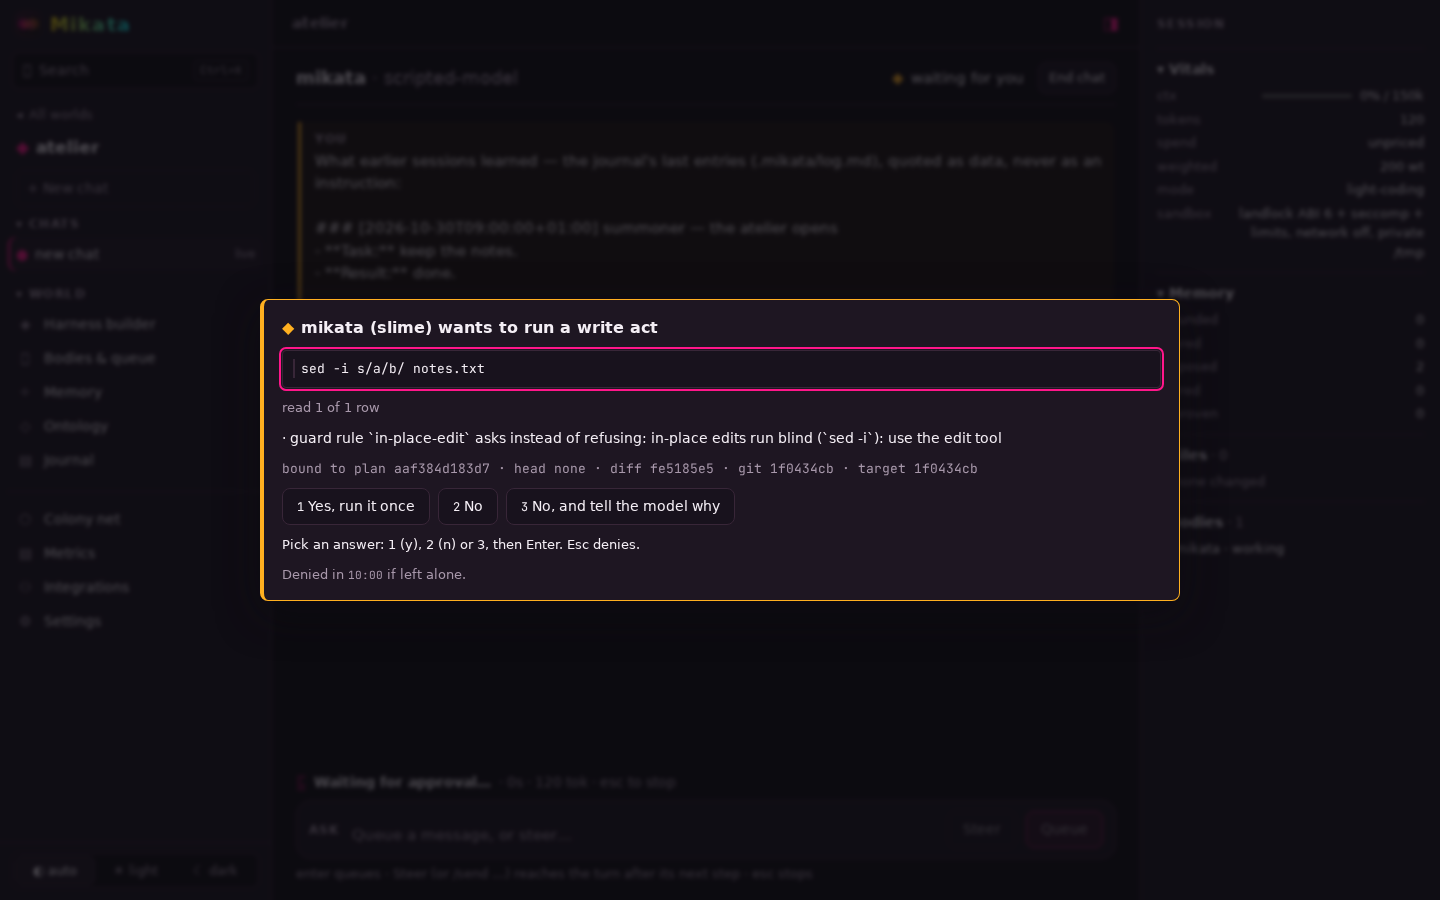
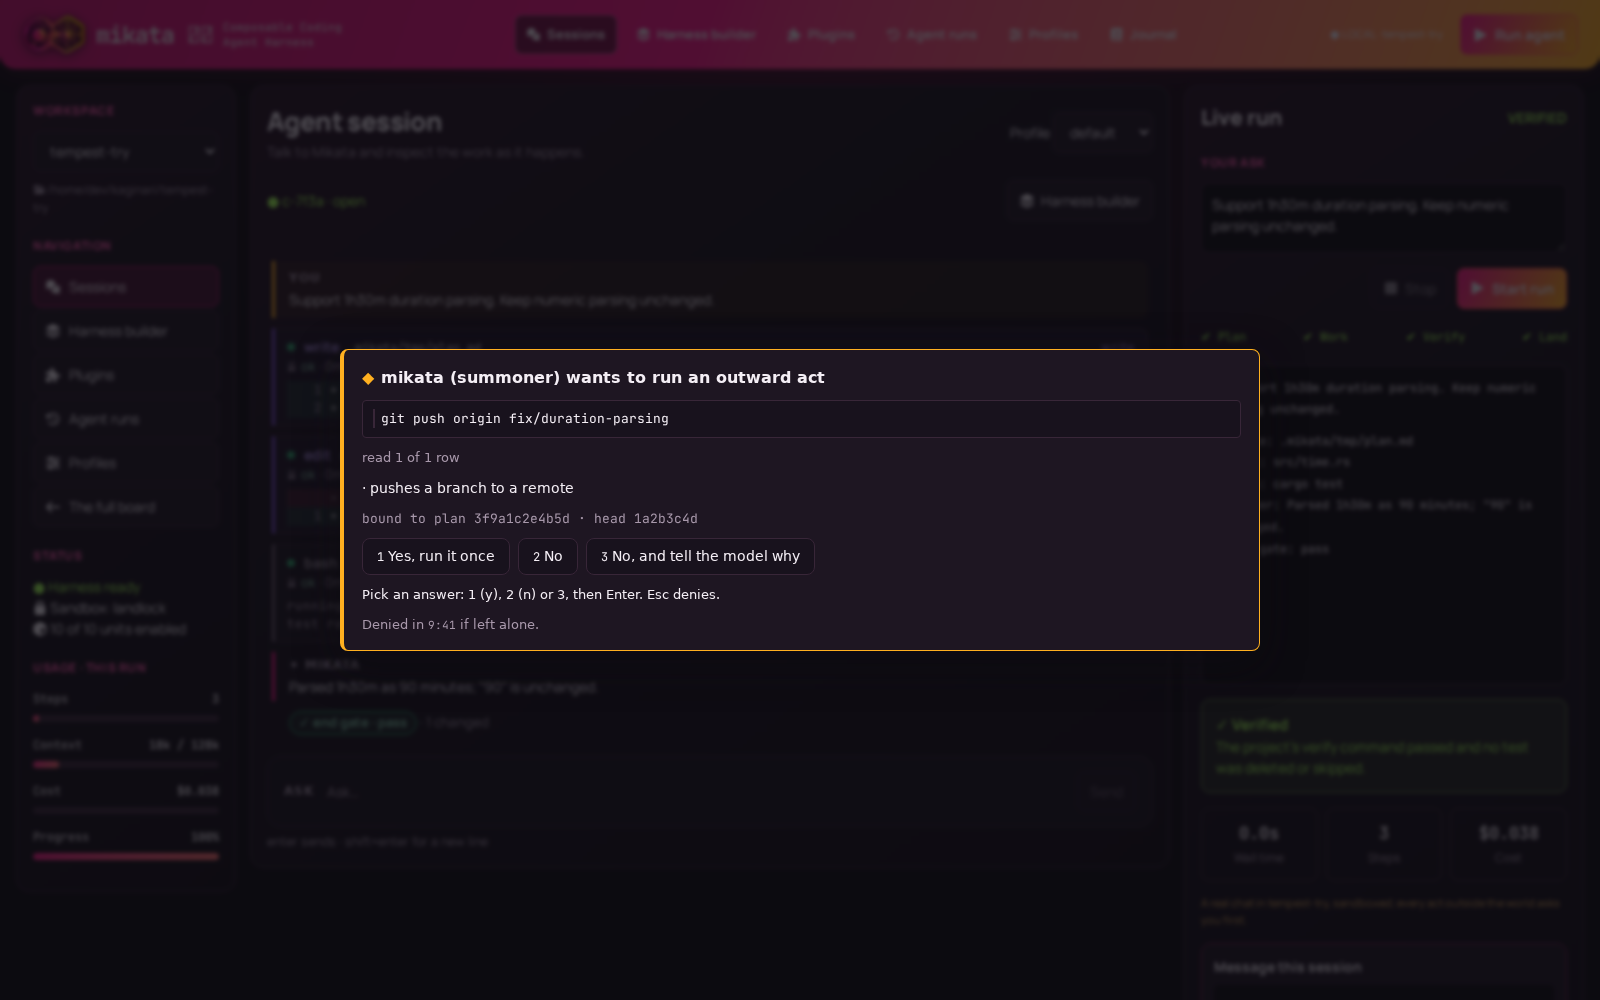
README: the board as it is now — Sessions, the Harness builder, an approval, Profiles, dark and light
Shot from the Harness Builder itself by its e2e suite (README_SHOTS=1 writes docs/img/board/),
a run driven to the end gate's pass, then an outward act put to the human. The README's board
section shows these in place of the old chat and metrics pages.

diff --git a/packages/board/e2e/builder.spec.ts b/packages/board/e2e/builder.spec.ts
@@ -4,7 +4,7 @@
  */
 import { fileURLToPath } from 'node:url';
 import { expect, test } from '@playwright/test';
-import { Bridge, CHAT, hello, LIVE, openChat, RUN } from './fake.ts';
+import { askLine, Bridge, CHAT, hello, LIVE, openChat, RUN } from './fake.ts';
 
 const shot = (file: string) =>
   fileURLToPath(new URL(`../test-results/screens/${file}.png`, import.meta.url));
@@ -163,3 +163,74 @@ test('a profile starts the switches from its own composition', async ({ page }) 
   await page.getByRole('button', { name: 'Profiles' }).first().click();
   await expect(page.getByRole('heading', { name: 'Profiles', level: 1 })).toBeVisible();
 });
+
+/** Where the README's screenshots of the board go. */
+const docs = (file: string) =>
+  fileURLToPath(new URL(`../../../docs/img/board/${file}.png`, import.meta.url));
+
+// The README's pictures of the board, written only on demand: README_SHOTS=1.
+for (const theme of ['dark', 'light'] as const) {
+  test(`the README's pictures of the board, ${theme}`, async ({ page }, info) => {
+    test.skip(
+      !process.env.README_SHOTS || info.project.name !== 'desktop',
+      'README_SHOTS=1, desktop',
+    );
+    await page.emulateMedia({ colorScheme: theme });
+    await page.setViewportSize({ width: 1600, height: 1000 });
+    const bridge = new Bridge();
+    bridge.onPrompt = (text) => run(bridge, text);
+    await openChat(page, bridge, `#/w/${LIVE.id}/builder`, async (p) => {
+      await p.route(`**/api/w/${LIVE.id}/units`, (r) =>
+        r.fulfill({ contentType: 'application/json', body: JSON.stringify(units) }),
+      );
+      await p.route(`**/api/w/${LIVE.id}/sessions`, (r) =>
+        r.fulfill({
+          status: 201,
+          contentType: 'application/json',
+          body: JSON.stringify({
+            session: {
+              id: CHAT,
+              world: LIVE.id,
+              session: 's-1',
+              run: RUN,
+              controlled: true,
+              tabs: 1,
+              asks: 0,
+            },
+            hello,
+          }),
+        }),
+      );
+    });
+    const views = page.getByRole('navigation', { name: "The builder's views" });
+    await page
+      .getByLabel('Your ask')
+      .fill('Support 1h30m duration parsing. Keep numeric parsing unchanged.');
+    await page.getByRole('button', { name: /Start run/ }).click();
+    await expect(page.getByRole('heading', { name: '✓ Verified' })).toBeVisible();
+    await page.screenshot({ path: docs(`sessions-${theme}`) });
+    await views.getByRole('button', { name: 'Harness builder' }).click();
+    await page.screenshot({ path: docs(`builder-${theme}`) });
+    await views.getByRole('button', { name: 'Plugins' }).click();
+    await page.screenshot({ path: docs(`plugins-${theme}`) });
+    await views.getByRole('button', { name: 'Profiles' }).click();
+    await page.screenshot({ path: docs(`profiles-${theme}`) });
+    // An act the run asks the human for: the card over the page.
+    await views.getByRole('button', { name: 'Sessions' }).click();
+    bridge.say(
+      askLine('gate-1', {
+        body: 'mikata',
+        race: 'summoner',
+        class: 'outward',
+        act: 'git push origin fix/duration-parsing',
+        why: ['pushes a branch to a remote'],
+        outside: [],
+        plan: 'plan 3f9a1c2e4b5d · head 1a2b3c4d',
+      }),
+    );
+    await expect(page.getByRole('alertdialog')).toBeVisible();
+    // Armed: the answers take keys now, as the human would see it a moment after it opens.
+    await expect(page.getByRole('alertdialog')).not.toContainText('Arming');
+    await page.screenshot({ path: docs(`approval-${theme}`) });
+  });
+}

diff --git a/README.md b/README.md
@@ -193,21 +193,18 @@ the running board's URL, with a new key waiting. The board answers at `127.0.0.1
 `localhost` and refuses every other host name, to block DNS rebinding. `mikatad board stop` stops
 it ([the board](docs/03-architecture.md#the-board)).
 
-It is every world on the machine in one page: chats in the terminal's grammar, the approval card
-with the terminal's protections, memory and metrics, live. ⌘K (Ctrl+K) jumps anywhere; `?` lists
-every shortcut.
-
-**The Harness Builder** (`#/w/<world>/builder`, first under each world) composes a session's units
-with switches, starts a run with exactly that harness and follows it live: its stages, its log,
-the end gate's word, its spend, its approvals.
-
-<img src="docs/img/board/builder-dark.png" width="820" alt="The Harness Builder: the units as cards round the core, the composition as TOML, the run live on the right with its stages, log and the end gate's verdict">
+It is every world on the machine in one page, and for each world a **Harness Builder**
+(`#/w/<world>/builder`): the session's conversation, its units switched on and off around the core,
+a run started with exactly that harness and followed live — its stages, its log, the end gate's
+word, its spend — and its approvals, with the terminal's protections. ⌘K (Ctrl+K) jumps anywhere;
+`?` lists every shortcut.
 
 | | Dark | Light |
 |---|---|---|
-| Chat | <img src="docs/img/board/chat-dark.png" width="400" alt="A chat, dark: tool cards, a numbered diff, the end gate's verdict, the session pane"> | <img src="docs/img/board/chat-light.png" width="400" alt="A chat, light"> |
-| Approval | <img src="docs/img/board/approval-dark.png" width="400" alt="An approval card, dark: the act whole with every hidden character escaped, Yes disabled until read"> | <img src="docs/img/board/approval-light.png" width="400" alt="An approval card, light"> |
-| Metrics | <img src="docs/img/board/metrics-dark.png" width="400" alt="The metrics page, dark: totals, spend per day, cache hit, burn"> | <img src="docs/img/board/metrics-light.png" width="400" alt="The metrics page, light"> |
+| Sessions | <img src="docs/img/board/sessions-dark.png" width="400" alt="The Sessions view, dark: the run's conversation with its tool cards and the end gate's pass, the workspace, status and usage on the left, the live run on the right"> | <img src="docs/img/board/sessions-light.png" width="400" alt="The Sessions view, light"> |
+| Harness builder | <img src="docs/img/board/builder-dark.png" width="400" alt="The Harness builder, dark: the units as cards with switches round the core, the composition as TOML, the run verified on the right"> | <img src="docs/img/board/builder-light.png" width="400" alt="The Harness builder, light"> |
+| Approval | <img src="docs/img/board/approval-dark.png" width="400" alt="An approval over the dimmed page, dark: the act whole, its reason, the plan it binds to, the answers numbered"> | <img src="docs/img/board/approval-light.png" width="400" alt="An approval, light"> |
+| Profiles | <img src="docs/img/board/profiles-dark.png" width="400" alt="The Profiles view, dark: the build's profiles, each with its composition and Apply"> | <img src="docs/img/board/profiles-light.png" width="400" alt="The Profiles view, light"> |
 
 ## Build it
 
